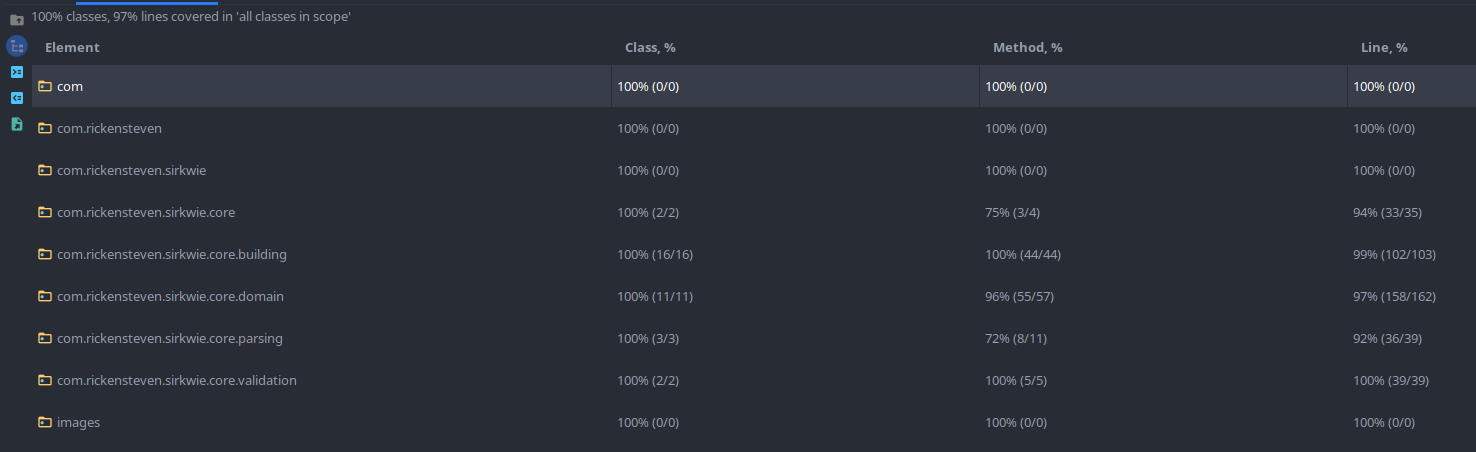
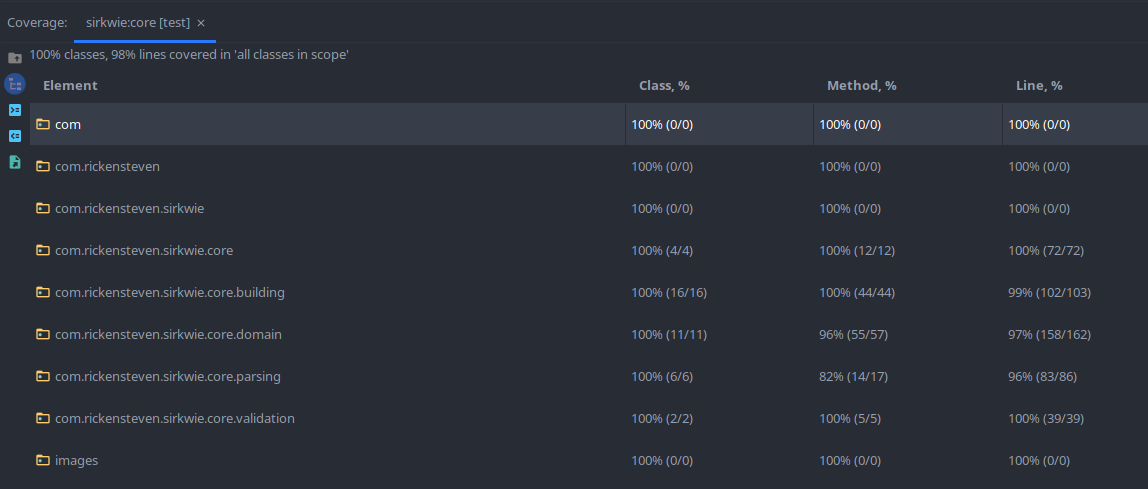
made last tests

diff --git a/core/src/test/java/com/rickensteven/sirkwie/core/CircuitLoaderFacadeTest.java b/core/src/test/java/com/rickensteven/sirkwie/core/CircuitLoaderFacadeTest.java
@@ -1,10 +1,12 @@
 package com.rickensteven.sirkwie.core;
 
 import com.rickensteven.sirkwie.core.domain.Circuit;
+import com.rickensteven.sirkwie.core.domain.Node;
 import com.rickensteven.sirkwie.core.exception.CircuitInfiniteLoopException;
 import com.rickensteven.sirkwie.core.exception.CircuitNotConnectedException;
 import com.rickensteven.sirkwie.core.parsing.ANTLRCircuitParser;
 import com.rickensteven.sirkwie.core.parsing.ICircuitParser;
+import com.rickensteven.sirkwie.core.parsing.XMLCircuitParser;
 import org.junit.jupiter.api.Test;
 
 import static org.junit.jupiter.api.Assertions.*;
@@ -98,5 +100,47 @@ public class CircuitLoaderFacadeTest
         CircuitLoaderFacade circuitLoaderFacade = new CircuitLoaderFacade(circuitParser);
 
         assertThrows(CircuitNotConnectedException.class, () -> circuitLoaderFacade.loadCircuit(ClassLoader.getSystemResource("Circuit6_NotAllProbesReachable.txt").getPath()));
+    }
+
+    @Test
+    public void setCircuitParser()
+    {
+        XMLCircuitParser xmlCircuitParser = new XMLCircuitParser();
+        ANTLRCircuitParser antlrCircuitParser = new ANTLRCircuitParser();
+
+        CircuitLoaderFacade circuitLoaderFacade = new CircuitLoaderFacade();
+
+        assertNull(circuitLoaderFacade.getCircuitParser());
+
+        circuitLoaderFacade.setCircuitParser(xmlCircuitParser);
+        assertNotNull(circuitLoaderFacade.getCircuitParser());
+        assertEquals(xmlCircuitParser, circuitLoaderFacade.getCircuitParser());
+
+        circuitLoaderFacade.setCircuitParser(antlrCircuitParser);
+        assertNotNull(circuitLoaderFacade.getCircuitParser());
+        assertEquals(antlrCircuitParser, circuitLoaderFacade.getCircuitParser());
+    }
+
+    @Test
+    public void addSimulationListener()
+    {
+        CircuitLoaderFacade circuitLoaderFacade = new CircuitLoaderFacade();
+
+        circuitLoaderFacade.addSimulationListener(new ISimulationListener()
+        {
+            @Override
+            public void onStartCalculate(Node node)
+            {
+
+            }
+
+            @Override
+            public void onStopCalculate(Node node, boolean calculatedValue)
+            {
+
+            }
+        });
+
+        assertEquals(1, circuitLoaderFacade.getSimulationListeners().size());
     }
 }

diff --git a/core/src/test/java/com/rickensteven/sirkwie/core/PropagationDelayCalculatorTest.java b/core/src/test/java/com/rickensteven/sirkwie/core/PropagationDelayCalculatorTest.java
@@ -1,0 +1,35 @@
+package com.rickensteven.sirkwie.core;
+
+import com.rickensteven.sirkwie.core.domain.Input;
+import com.rickensteven.sirkwie.core.domain.Node;
+import com.rickensteven.sirkwie.core.domain.NotGate;
+import com.rickensteven.sirkwie.core.domain.Probe;
+import org.junit.jupiter.api.Test;
+
+import static org.junit.jupiter.api.Assertions.*;
+
+class PropagationDelayCalculatorTest
+{
+    @Test
+    void calculate()
+    {
+        PropagationDelayCalculator propagationDelayCalculator = new PropagationDelayCalculator();
+
+        Probe s = new Probe("S");
+        Node node1 = new NotGate("NODE1");
+        Node node2 = new NotGate("NODE2");
+        Input input = new Input(true, "I");
+
+        propagationDelayCalculator.onStartCalculate(s);
+        propagationDelayCalculator.onStartCalculate(node1);
+        propagationDelayCalculator.onStartCalculate(node2);
+        propagationDelayCalculator.onStartCalculate(input);
+        propagationDelayCalculator.onStopCalculate(input, false);
+        propagationDelayCalculator.onStopCalculate(node2, false);
+        propagationDelayCalculator.onStopCalculate(node1, false);
+        propagationDelayCalculator.onStopCalculate(s, false);
+
+        // 30 because we have 2 nodes
+        assertEquals(30, propagationDelayCalculator.calculate());
+    }
+}

diff --git a/core/src/test/java/com/rickensteven/sirkwie/core/parsing/CircuitParserFactoryTest.java b/core/src/test/java/com/rickensteven/sirkwie/core/parsing/CircuitParserFactoryTest.java
@@ -1,0 +1,25 @@
+package com.rickensteven.sirkwie.core.parsing;
+
+import org.junit.jupiter.api.Test;
+
+import java.util.HashSet;
+import java.util.Set;
+
+import static org.junit.jupiter.api.Assertions.*;
+
+class CircuitParserFactoryTest
+{
+    @Test
+    void getCircuitParser()
+    {
+        CircuitParserFactory circuitParserFactory = new CircuitParserFactory();
+
+        assertEquals(new HashSet<>() {{
+            add("ANTLR");
+            add("XML");
+        }}, circuitParserFactory.circuitParserNames);
+
+        assertTrue(circuitParserFactory.getCircuitParser("ANTLR") instanceof ANTLRCircuitParser);
+        assertTrue(circuitParserFactory.getCircuitParser("XML") instanceof XMLCircuitParser);
+    }
+}

diff --git a/core/src/main/java/com/rickensteven/sirkwie/core/CircuitLoaderFacade.java b/core/src/main/java/com/rickensteven/sirkwie/core/CircuitLoaderFacade.java
@@ -80,8 +80,18 @@ public class CircuitLoaderFacade
         this.circuitParser = circuitParser;
     }
 
+    public ICircuitParser getCircuitParser()
+    {
+        return circuitParser;
+    }
+
     public void addSimulationListener(ISimulationListener simulationListener)
     {
         simulationListeners.add(simulationListener);
+    }
+
+    public Set<ISimulationListener> getSimulationListeners()
+    {
+        return simulationListeners;
     }
 }
